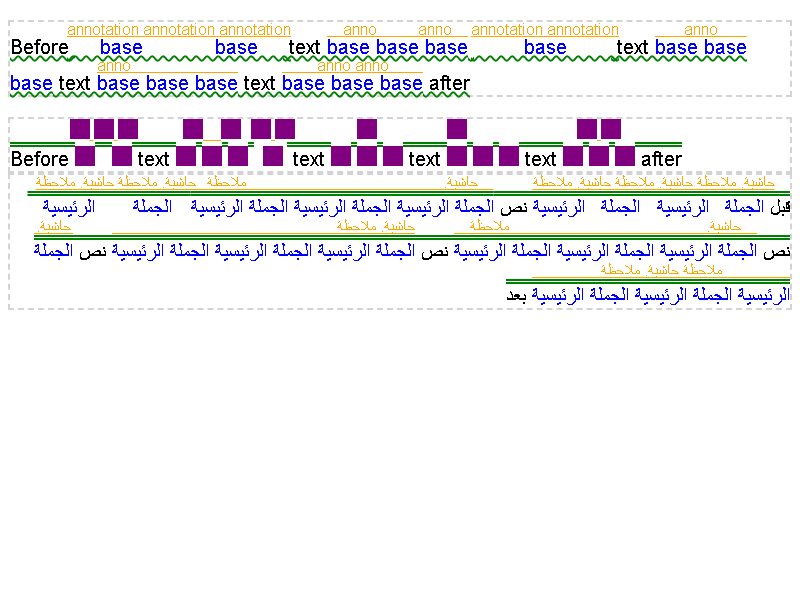
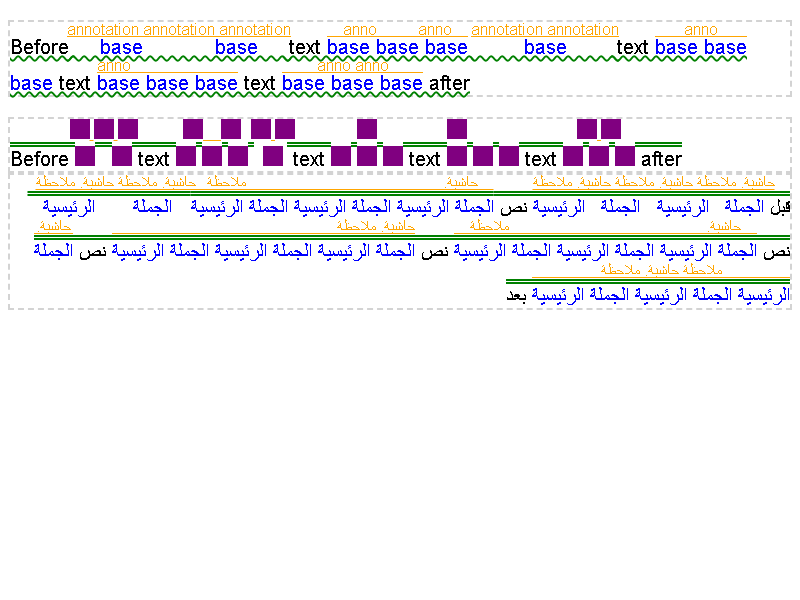
Keep wavy text decorations continuous across fragments
Anchor the wavy pattern at the start of the decorating box instead of
each fragment's own origin, so the wave phase no longer restarts at
inline element boundaries like a nested <em>. Behind the default-on
WavyDecorationContinuousPhase runtime feature as a kill switch.

Bug: 41287729
Commit-Queue: Helmut Januschka <helmut@januschka.com>
Cr-Commit-Position: refs/heads/main@{#1714354}
NOKEYCHECK=True
GitOrigin-RevId: 198d0b60e4b380d9af19291d6f36813a808c675b

Changed region(s): [[0.0938, 0.09, 0.9375, 0.12], [0.0625, 0.15, 0.5938, 0.18]]

diff --git a/blink/web_tests/external/wpt/css/css-text-decor/text-decoration-wavy-phase-across-elements-001.html b/blink/web_tests/external/wpt/css/css-text-decor/text-decoration-wavy-phase-across-elements-001.html
@@ -1,0 +1,19 @@
+<!DOCTYPE html>
+<meta charset="utf-8">
+<title>CSS Text Decoration Test: Wavy underline continues across element boundaries</title>
+<link rel="author" title="Helmut Januschka" href="mailto:helmut@januschka.com">
+<link rel="help" href="https://drafts.csswg.org/css-text-decor-4/#decorating-box">
+<link rel="help" href="https://crbug.com/41287729">
+<meta name="assert" content="Checks that the wavy underline of a decorating box keeps a continuous wave phase across descendant element boundaries.">
+<link rel="match" href="reference/text-decoration-wavy-phase-across-elements-001-ref.html">
+<link rel="stylesheet" type="text/css" href="/fonts/ahem.css">
+<style>
+  #decoration {
+    font: 40px/3 Ahem;
+    color: transparent;
+    text-decoration: underline wavy green;
+    text-decoration-skip-ink: none;
+  }
+</style>
+<p>The test passes if you see a single uninterrupted green wavy line.</p>
+<div id="decoration">XX<span>XX</span>XX</div>

diff --git a/blink/web_tests/external/wpt/css/css-text-decor/reference/text-decoration-wavy-phase-across-elements-001-ref.html b/blink/web_tests/external/wpt/css/css-text-decor/reference/text-decoration-wavy-phase-across-elements-001-ref.html
@@ -1,0 +1,15 @@
+<!DOCTYPE html>
+<meta charset="utf-8">
+<title>CSS Text Decoration Test: Wavy underline continues across element boundaries reference file</title>
+<link rel="author" title="Helmut Januschka" href="mailto:helmut@januschka.com">
+<link rel="stylesheet" type="text/css" href="/fonts/ahem.css">
+<style>
+  #decoration {
+    font: 40px/3 Ahem;
+    color: transparent;
+    text-decoration: underline wavy green;
+    text-decoration-skip-ink: none;
+  }
+</style>
+<p>The test passes if you see a single uninterrupted green wavy line.</p>
+<div id="decoration">XXXXXX</div>

diff --git a/blink/renderer/core/paint/inline_paint_context_test.cc b/blink/renderer/core/paint/inline_paint_context_test.cc
@@ -230,6 +230,102 @@ TEST_F(InlinePaintContextTest, DecorationInsetAccumulatesAcrossRun) {
   EXPECT_FLOAT_EQ(0.0f, ef_geometry.line.width());
 }
 
+// Shared setup for the wavy phase tests: a decorated `#target` split into
+// three 20px fragments ("AB", nested "CD", "EF"), and a helper that computes
+// each fragment's wavy underline geometry the same way `TextFragmentPainter`
+// does when painting it.
+class WavyDecorationPhaseTest : public InlinePaintContextTest {
+ public:
+  void SetupDecoratedFragments() {
+    LoadAhem();
+    SetBodyInnerHTML(R"HTML(
+      <style>
+      #ifc {
+        font: 10px/1 Ahem;
+        margin: 0;
+      }
+      #target {
+        text-decoration: underline wavy;
+      }
+      </style>
+      <div id="ifc">
+        <span id="target">AB<span style="background: yellow">CD</span>EF</span>
+      </div>
+    )HTML");
+  }
+
+  DecorationGeometry WavyGeometryFor(const LayoutObject& text) {
+    const auto* ifc = To<LayoutBlockFlow>(GetLayoutObjectByElementId("ifc"));
+    InlineCursor line_cursor(*ifc);
+    line_cursor.MoveToFirstLine();
+    InlinePaintContext inline_context;
+    inline_context.SetLineBox(line_cursor);
+
+    InlineCursor cursor;
+    cursor.MoveTo(text);
+    EXPECT_TRUE(cursor.Current());
+    const FragmentItem& item = *cursor.CurrentItem();
+    InlinePaintContext::ScopedInlineItem scoped_item(item, &inline_context);
+    const PhysicalOffset offset = item.OffsetInContainerFragment();
+    TextDecorationInfo info(LineRelativeOffset::CreateFromBoxOrigin(offset),
+                            item.Size().width, item.Style(), item.GetUsedFont(),
+                            &inline_context, TextDecorationLine::kNone,
+                            Color());
+    EXPECT_EQ(info.AppliedDecorationCount(), 1u);
+    const ResolvedDecoration decoration = info.ResolveDecorationAt(0);
+    EXPECT_TRUE(decoration.HasUnderline());
+    TextDecorationOffset decoration_offset(item.Style());
+    return info.ComputeUnderlineLineData(decoration, decoration_offset);
+  }
+
+  const LayoutObject& TextChild(int index) {
+    const LayoutObject* target = GetLayoutObjectByElementId("target");
+    const LayoutObject* ab_text = target->SlowFirstChild();
+    CHECK(ab_text && ab_text->IsText());
+    if (index == 0) {
+      return *ab_text;
+    }
+    const LayoutObject* nested_span = ab_text->NextSibling();
+    CHECK(nested_span);
+    if (index == 1) {
+      const LayoutObject* cd_text = nested_span->SlowFirstChild();
+      CHECK(cd_text && cd_text->IsText());
+      return *cd_text;
+    }
+    const LayoutObject* ef_text = nested_span->NextSibling();
+    CHECK(ef_text && ef_text->IsText());
+    return *ef_text;
+  }
+};
+
+TEST_F(WavyDecorationPhaseTest, PhaseContinuesAcrossFragments) {
+  SetupDecoratedFragments();
+
+  // The wavy pattern is anchored at the decorating box (`#target`), so each
+  // fragment's pattern shift is its inline distance from the box start. This
+  // keeps the wave phase continuous across the fragment boundaries.
+  const DecorationGeometry ab_geometry = WavyGeometryFor(TextChild(0));
+  EXPECT_EQ(ab_geometry.style, kWavyStroke);
+  EXPECT_FLOAT_EQ(0.f, ab_geometry.wavy_pattern_shift);
+
+  const DecorationGeometry cd_geometry = WavyGeometryFor(TextChild(1));
+  EXPECT_EQ(cd_geometry.style, kWavyStroke);
+  EXPECT_FLOAT_EQ(20.f, cd_geometry.wavy_pattern_shift);
+
+  const DecorationGeometry ef_geometry = WavyGeometryFor(TextChild(2));
+  EXPECT_EQ(ef_geometry.style, kWavyStroke);
+  EXPECT_FLOAT_EQ(40.f, ef_geometry.wavy_pattern_shift);
+}
+
+TEST_F(WavyDecorationPhaseTest, KillSwitchRestoresPerFragmentPhase) {
+  ScopedWavyDecorationContinuousPhaseForTest continuous_phase(false);
+  SetupDecoratedFragments();
+
+  const DecorationGeometry ef_geometry = WavyGeometryFor(TextChild(2));
+  EXPECT_EQ(ef_geometry.style, kWavyStroke);
+  EXPECT_FLOAT_EQ(0.f, ef_geometry.wavy_pattern_shift);
+}
+
 TEST_F(InlinePaintContextTest, VerticalAlign) {
   LoadAhem();
   SetBodyInnerHTML(R"HTML(

diff --git a/blink/renderer/core/paint/text_decoration_info.cc b/blink/renderer/core/paint/text_decoration_info.cc
@@ -420,6 +420,10 @@ const ResolvedDecoration TextDecorationInfo::ResolveDecorationAt(
       decoration.HasUnderline() && decorating_box
           ? OffsetFromDecoratingBox(*decorating_box)
           : LayoutUnit();
+  if (decorating_box) {
+    decoration.inline_offset_from_decorating_box =
+        InlineOffsetFromDecoratingBox(*decorating_box);
+  }
 
   decoration.resolved_thickness = ComputeThickness(decoration);
   ResolveDecorationInsets(decoration_index, decoration);
@@ -494,6 +498,12 @@ DecorationGeometry TextDecorationInfo::ComputeLineData(
       DecorationGeometry::Make(style, decoration_rect, double_offset,
                                wavy_offset, base::OptionalToPtr(spelling_wave));
   geometry.antialias = antialias;
+  if (geometry.style == kWavyStroke &&
+      RuntimeEnabledFeatures::WavyDecorationContinuousPhaseEnabled()) {
+    geometry.wavy_pattern_shift =
+        decoration.inline_offset_from_decorating_box.ToFloat() +
+        decoration.line_left_inset;
+  }
   return geometry;
 }
 
@@ -575,6 +585,18 @@ LayoutUnit TextDecorationInfo::OffsetFromDecoratingBox(
       decorating_box.ContentOffsetInContainer().top +
       inline_context_->PaintOffset().top;
   return decorating_box_paint_offset - local_origin_.line_over;
+}
+
+// The decorating box is only used in horizontal writing modes (see
+// |ResolveDecorationAt|), where line-left equals the physical left.
+LayoutUnit TextDecorationInfo::InlineOffsetFromDecoratingBox(
+    const DecoratingBox& decorating_box) const {
+  DCHECK(use_decorating_box_);
+  DCHECK(inline_context_);
+  const LayoutUnit decorating_box_paint_offset =
+      decorating_box.ContentOffsetInContainer().left +
+      inline_context_->PaintOffset().left;
+  return local_origin_.line_left - decorating_box_paint_offset;
 }
 
 DecorationGeometry TextDecorationInfo::ComputeUnderlineLineData(

diff --git a/blink/renderer/core/paint/decoration_line_painter.cc b/blink/renderer/core/paint/decoration_line_painter.cc
@@ -4,6 +4,8 @@
 
 #include "third_party/blink/renderer/core/paint/decoration_line_painter.h"
 
+#include <cmath>
+
 #include "cc/paint/color_filter.h"
 #include "cc/paint/paint_flags.h"
 #include "cc/paint/paint_record.h"
@@ -520,10 +522,17 @@ void DecorationLinePainter::PaintWavyTextDecoration(
       SkTileMode::kRepeat, SkTileMode::kDecal, nullptr));
   flags.setColorFilter(cc::ColorFilter::MakeBlend(color, SkBlendMode::kSrcIn));
 
+  float pattern_shift =
+      std::fmod(geometry.wavy_pattern_shift, geometry.wavy_wave.wavelength);
+  if (pattern_shift < 0) {
+    pattern_shift += geometry.wavy_wave.wavelength;
+  }
+
   GraphicsContextStateSaver state_saver(context_);
-  context_.Translate(paint_rect.x(), paint_rect.y());
-  context_.DrawRect(gfx::RectFToSkRect(gfx::RectF(paint_rect.size())), flags,
-                    auto_dark_mode);
+  context_.Translate(paint_rect.x() - pattern_shift, paint_rect.y());
+  context_.DrawRect(gfx::RectFToSkRect(gfx::RectF(
+                        gfx::PointF(pattern_shift, 0.f), paint_rect.size())),
+                    flags, auto_dark_mode);
 }
 
 }  // namespace blink

diff --git a/blink/renderer/core/paint/text_decoration_info.h b/blink/renderer/core/paint/text_decoration_info.h
@@ -81,6 +81,10 @@ struct ResolvedDecoration {
   // This field is available only if a decorating box is applied and `lines`
   // has underline.
   LayoutUnit offset_from_decorating_box;
+  // Inline offset of the target from the start of its decorating box, used
+  // to keep the wavy pattern phase continuous across the fragments the box
+  // decorates. Available only if a decorating box is applied.
+  LayoutUnit inline_offset_from_decorating_box;
   ResolvedUnderlinePosition underline_position =
       ResolvedUnderlinePosition::kNearAlphabeticBaselineAuto;
   bool has_underline = false;
@@ -185,6 +189,8 @@ class CORE_EXPORT TextDecorationInfo {
 
  private:
   LayoutUnit OffsetFromDecoratingBox(const DecoratingBox& decorating_box) const;
+  LayoutUnit InlineOffsetFromDecoratingBox(
+      const DecoratingBox& decorating_box) const;
   float ComputeThickness(const ResolvedDecoration& decoration) const;
 
   LayoutUnit Width() const { return width_; }

diff --git a/blink/renderer/core/paint/decoration_line_painter.h b/blink/renderer/core/paint/decoration_line_painter.h
@@ -53,6 +53,12 @@ struct DecorationGeometry {
   float wavy_offset = 0;
   WaveDefinition wavy_wave;
 
+  // Only used for kWavyStroke lines: inline distance from the wavy pattern
+  // anchor (the start of the decorating box) to the origin of `line`.
+  // Painting shifts the pattern by this amount (modulo the wavelength) so
+  // that the wave phase continues across fragments sharing a decorating box.
+  float wavy_pattern_shift = 0;
+
   bool antialias = false;
 };
 

diff --git a/blink/renderer/core/paint/inline_paint_context.h b/blink/renderer/core/paint/inline_paint_context.h
@@ -46,7 +46,7 @@ class CORE_EXPORT InlinePaintContext {
   }
 
   // Pushes a decorating box if the item is a decorating box.
-  class ScopedInlineItem {
+  class CORE_EXPORT ScopedInlineItem {
     STACK_ALLOCATED();
 
    public:
